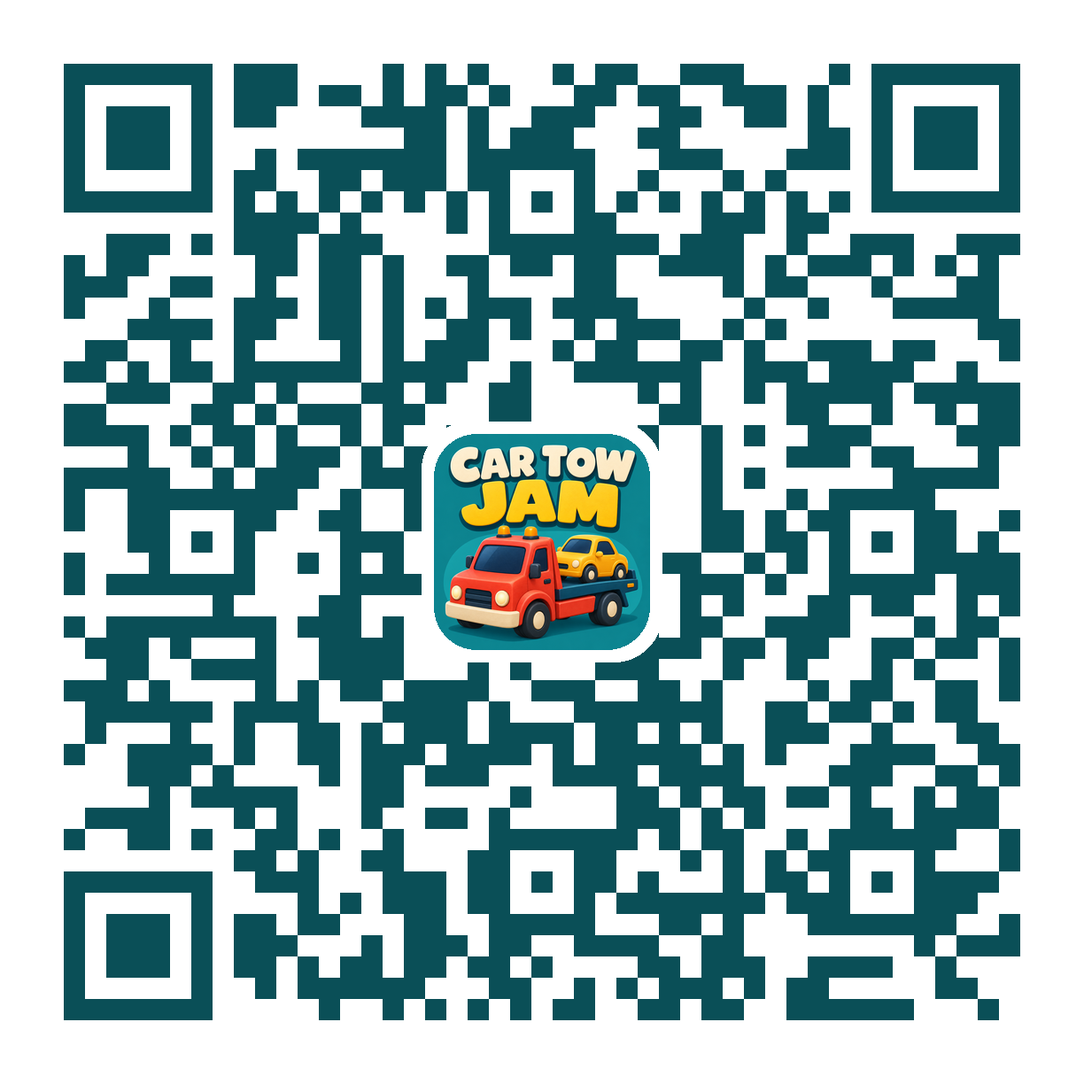
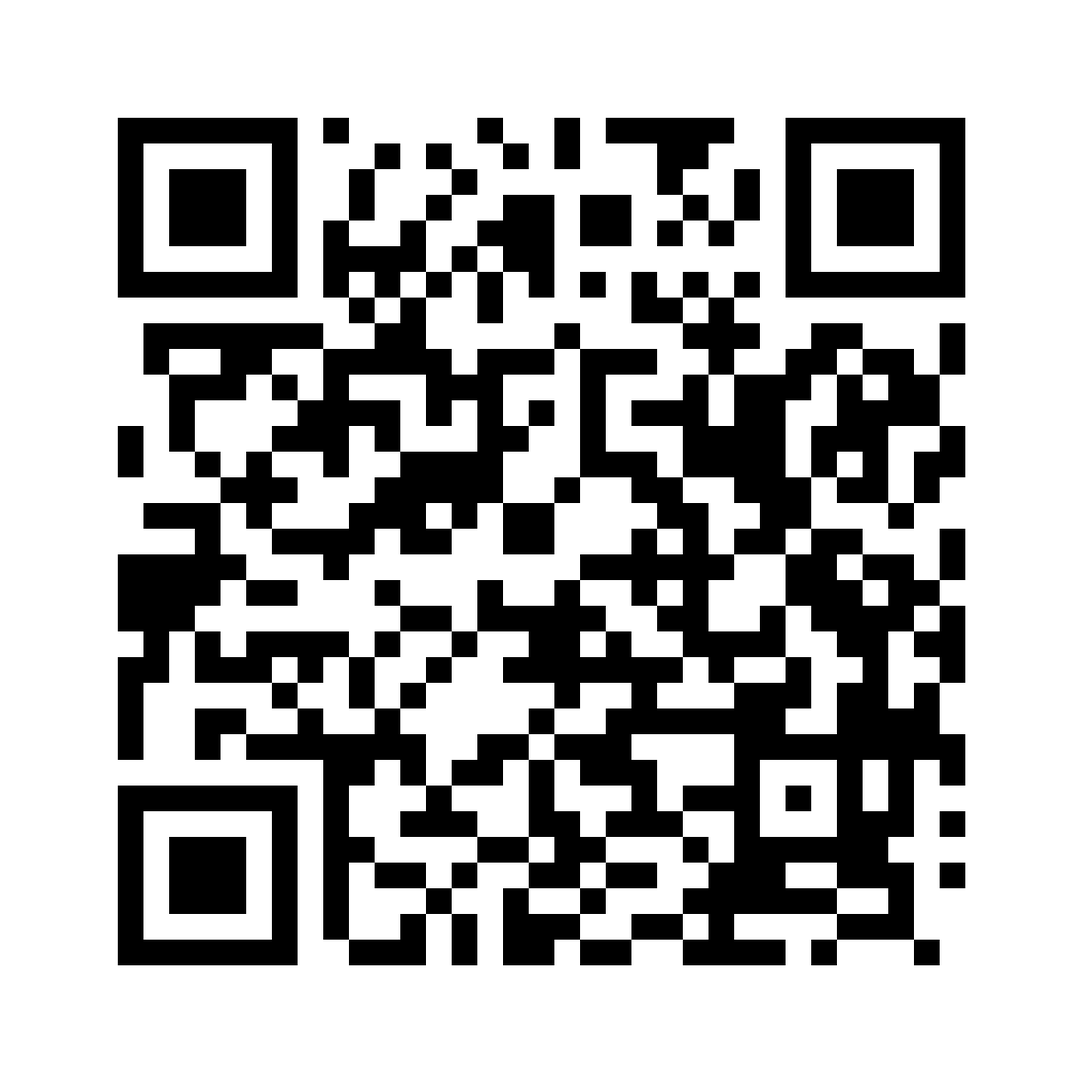
Rebrand website to Tow Yard: Truck Parking Puzzle
New name, icon, logo and screenshots; site URLs and QR codes point to
https://mu-haris.github.io/Tow-Yard/ (repo to be renamed to Tow-Yard).

diff --git a/support/index.html b/support/index.html
@@ -3,35 +3,36 @@
 <head>
 <meta charset="utf-8">
 <meta name="viewport" content="width=device-width,initial-scale=1">
-<title>Support | Car Tow Jam: Parking Puzzle</title>
-<meta name="description" content="Help and contact for Car Tow Jam: Parking Puzzle.">
+<title>Support | Tow Yard: Truck Parking Puzzle</title>
+<meta name="description" content="Help and contact for Tow Yard: Truck Parking Puzzle.">
 <link rel="icon" href="../assets/favicon.png">
 <link rel="apple-touch-icon" href="../assets/apple-touch-icon.png">
-<meta property="og:title" content="Support | Car Tow Jam: Parking Puzzle">
-<meta property="og:description" content="Help and contact for Car Tow Jam: Parking Puzzle.">
-<meta property="og:image" content="https://mu-haris.github.io/Car-Tow-Jam-Parking-Puzzle/assets/icon-512.png">
-<meta property="og:url" content="https://mu-haris.github.io/Car-Tow-Jam-Parking-Puzzle/support/">
+<meta property="og:title" content="Support | Tow Yard: Truck Parking Puzzle">
+<meta property="og:description" content="Help and contact for Tow Yard: Truck Parking Puzzle.">
+<meta property="og:image" content="https://mu-haris.github.io/Tow-Yard/assets/icon-512.png">
+<meta property="og:url" content="https://mu-haris.github.io/Tow-Yard/support/">
 <link rel="preconnect" href="https://fonts.googleapis.com"><link rel="preconnect" href="https://fonts.gstatic.com" crossorigin>
 <link href="https://fonts.googleapis.com/css2?family=Fredoka:wght@500;600&family=Nunito:wght@400;600;700&display=swap" rel="stylesheet">
 <link rel="stylesheet" href="../assets/site.css">
 </head>
 <body>
 <header class="top"><div class="wrap">
-<a class="brand" href="../"><img src="../assets/icon-512.png" alt=""><span>Car Tow Jam</span></a>
+<a class="brand" href="../"><img src="../assets/icon-512.png" alt=""><span>Tow Yard</span></a>
 <nav><a href="../">Home</a><a href="../support/">Support</a><a href="../privacy/">Privacy</a><a href="../terms/">Terms</a></nav>
 </div></header>
 
 <main class="wrap"><article class="doc">
 <h1>Support</h1>
-<p class="meta">We are happy to help with Car Tow Jam: Parking Puzzle.</p>
+<p class="meta">We are happy to help with Tow Yard: Truck Parking Puzzle.</p>
 <div class="contact"><a class="btn" href="mailto:muhammadharisgift1@gmail.com?subject=Car%20Tow%20Jam%20Support">Email support</a><span>muhammadharisgift1@gmail.com</span></div>
 <p>Please include your device model, iOS version, and the level number if your question is about a level.</p>
 <h2>Frequently asked questions</h2>
 <div class="faq">
 <details><summary>How do I play?</summary><p>Tap a car to drive it out. A car can leave only if nothing blocks its path. Cars of the active tow truck's colour load onto the truck; other cars wait in the yellow <strong>P</strong> parking spots. Top cars go to the ferry of their colour. Keep parking spots free so you do not run out of moves.</p></details>
 <details><summary>I bought Premium but still see ads</summary><p>Open <strong>Settings &gt; Restore Purchases</strong>. Make sure you are signed in with the same Apple ID that bought the subscription. Optional rewarded videos (like doubling coins) stay available with Premium.</p></details>
-<details><summary>How do I cancel Premium?</summary><p>On your iPhone, open <em>Settings &gt; [your name] &gt; Subscriptions</em>, choose Car Tow Jam and tap Cancel. Deleting the App does not cancel the subscription.</p></details>
+<details><summary>How do I cancel Premium?</summary><p>On your iPhone, open <em>Settings &gt; [your name] &gt; Subscriptions</em>, choose Tow Yard and tap Cancel. Deleting the App does not cancel the subscription.</p></details>
 <details><summary>Can I get a refund?</summary><p>Purchases are handled by Apple. Request a refund at <a href="https://reportaproblem.apple.com">reportaproblem.apple.com</a>.</p></details>
+<details><summary>Why is one parking spot locked?</summary><p>The leftmost parking spot unlocks for 4 minutes when you watch a short ad (tap the padlock). Every level can be finished with the other spots; the extra spot just makes it easier. Premium keeps it unlocked.</p></details>
 <details><summary>My progress or coins are gone</summary><p>Progress and coins are saved on your device. They are removed if the App is deleted. Premium can always be restored with Restore Purchases.</p></details>
 <details><summary>How do I turn off sound, music or vibration?</summary><p>Tap the gear button in the game to open Settings. Use the Music slider and the Sound and Vibration switches.</p></details>
 <details><summary>A level feels impossible</summary><p>Every level has a solution. Try parking different blocking cars, and use the parking spots sparingly. You can restart a level from the pause menu.</p></details>

diff --git a/terms/index.html b/terms/index.html
@@ -3,33 +3,33 @@
 <head>
 <meta charset="utf-8">
 <meta name="viewport" content="width=device-width,initial-scale=1">
-<title>Terms of Use | Car Tow Jam: Parking Puzzle</title>
-<meta name="description" content="Terms of use and subscription terms for Car Tow Jam: Parking Puzzle.">
+<title>Terms of Use | Tow Yard: Truck Parking Puzzle</title>
+<meta name="description" content="Terms of use and subscription terms for Tow Yard: Truck Parking Puzzle.">
 <link rel="icon" href="../assets/favicon.png">
 <link rel="apple-touch-icon" href="../assets/apple-touch-icon.png">
-<meta property="og:title" content="Terms of Use | Car Tow Jam: Parking Puzzle">
-<meta property="og:description" content="Terms of use and subscription terms for Car Tow Jam: Parking Puzzle.">
-<meta property="og:image" content="https://mu-haris.github.io/Car-Tow-Jam-Parking-Puzzle/assets/icon-512.png">
-<meta property="og:url" content="https://mu-haris.github.io/Car-Tow-Jam-Parking-Puzzle/terms/">
+<meta property="og:title" content="Terms of Use | Tow Yard: Truck Parking Puzzle">
+<meta property="og:description" content="Terms of use and subscription terms for Tow Yard: Truck Parking Puzzle.">
+<meta property="og:image" content="https://mu-haris.github.io/Tow-Yard/assets/icon-512.png">
+<meta property="og:url" content="https://mu-haris.github.io/Tow-Yard/terms/">
 <link rel="preconnect" href="https://fonts.googleapis.com"><link rel="preconnect" href="https://fonts.gstatic.com" crossorigin>
 <link href="https://fonts.googleapis.com/css2?family=Fredoka:wght@500;600&family=Nunito:wght@400;600;700&display=swap" rel="stylesheet">
 <link rel="stylesheet" href="../assets/site.css">
 </head>
 <body>
 <header class="top"><div class="wrap">
-<a class="brand" href="../"><img src="../assets/icon-512.png" alt=""><span>Car Tow Jam</span></a>
+<a class="brand" href="../"><img src="../assets/icon-512.png" alt=""><span>Tow Yard</span></a>
 <nav><a href="../">Home</a><a href="../support/">Support</a><a href="../privacy/">Privacy</a><a href="../terms/">Terms</a></nav>
 </div></header>
 
 <main class="wrap"><article class="doc">
 <h1>Terms of Use</h1>
-<p class="meta">Car Tow Jam: Parking Puzzle &middot; Last updated September 30, 2026</p>
-<p>These Terms of Use govern your use of Car Tow Jam: Parking Puzzle (the "App") published by Kinex Apps. By downloading or playing the App you agree to these terms and to Apple's <a href="https://www.apple.com/legal/internet-services/itunes/dev/stdeula/">Standard Licensed Application End User License Agreement</a>, which also applies.</p>
+<p class="meta">Tow Yard: Truck Parking Puzzle &middot; Last updated October 6, 2026</p>
+<p>These Terms of Use govern your use of Tow Yard: Truck Parking Puzzle (the "App") published by Kinex Apps. By downloading or playing the App you agree to these terms and to Apple's <a href="https://www.apple.com/legal/internet-services/itunes/dev/stdeula/">Standard Licensed Application End User License Agreement</a>, which also applies.</p>
 <h2>License</h2>
 <p>We grant you a personal, non-transferable, non-exclusive license to use the App on Apple devices you own or control, as permitted by the App Store terms.</p>
 <h2>Premium subscription</h2>
 <ul>
-<li><strong>Premium</strong> is an auto-renewing monthly subscription ($3.99 per month in the US; the price in your local currency is shown in the App before you buy). It removes banner ads and the ads shown between levels. Optional rewarded videos (for example, doubling coins) remain available.</li>
+<li><strong>Premium</strong> is an auto-renewing monthly subscription ($3.99 per month in the US; the price in your local currency is shown in the App before you buy). It removes banner ads and the ads shown between levels, and keeps the extra parking spot unlocked. Optional rewarded videos (for example, doubling coins) remain available.</li>
 <li>Payment is charged to your Apple ID account when you confirm the purchase.</li>
 <li>The subscription renews automatically unless it is cancelled at least 24 hours before the end of the current period. Your account is charged for renewal within 24 hours before the end of the current period.</li>
 <li>You can manage or cancel your subscription in your Apple ID account settings (<em>Settings &gt; [your name] &gt; Subscriptions</em>). Deleting the App does not cancel the subscription.</li>

diff --git a/index.html b/index.html
@@ -3,32 +3,32 @@
 <head>
 <meta charset="utf-8">
 <meta name="viewport" content="width=device-width,initial-scale=1">
-<title>Car Tow Jam: Parking Puzzle</title>
-<meta name="description" content="Car Tow Jam: Parking Puzzle, a relaxing traffic puzzle game for iPhone and iPad.">
+<title>Tow Yard: Truck Parking Puzzle</title>
+<meta name="description" content="Tow Yard: Truck Parking Puzzle, a relaxing traffic puzzle game for iPhone and iPad.">
 <link rel="icon" href="assets/favicon.png">
 <link rel="apple-touch-icon" href="assets/apple-touch-icon.png">
-<meta property="og:title" content="Car Tow Jam: Parking Puzzle">
-<meta property="og:description" content="Car Tow Jam: Parking Puzzle, a relaxing traffic puzzle game for iPhone and iPad.">
-<meta property="og:image" content="https://mu-haris.github.io/Car-Tow-Jam-Parking-Puzzle/assets/icon-512.png">
-<meta property="og:url" content="https://mu-haris.github.io/Car-Tow-Jam-Parking-Puzzle/">
+<meta property="og:title" content="Tow Yard: Truck Parking Puzzle">
+<meta property="og:description" content="Tow Yard: Truck Parking Puzzle, a relaxing traffic puzzle game for iPhone and iPad.">
+<meta property="og:image" content="https://mu-haris.github.io/Tow-Yard/assets/icon-512.png">
+<meta property="og:url" content="https://mu-haris.github.io/Tow-Yard/">
 <link rel="preconnect" href="https://fonts.googleapis.com"><link rel="preconnect" href="https://fonts.gstatic.com" crossorigin>
 <link href="https://fonts.googleapis.com/css2?family=Fredoka:wght@500;600&family=Nunito:wght@400;600;700&display=swap" rel="stylesheet">
 <link rel="stylesheet" href="assets/site.css">
 </head>
 <body>
 <header class="top"><div class="wrap">
-<a class="brand" href=""><img src="assets/icon-512.png" alt=""><span>Car Tow Jam</span></a>
+<a class="brand" href=""><img src="assets/icon-512.png" alt=""><span>Tow Yard</span></a>
 <nav><a href="">Home</a><a href="support/">Support</a><a href="privacy/">Privacy</a><a href="terms/">Terms</a></nav>
 </div></header>
 
 <section class="hero"><div class="wrap">
 <div>
-<h1>Car Tow Jam: Parking Puzzle</h1>
+<h1>Tow Yard: Truck Parking Puzzle</h1>
 <p class="lead">Untangle the traffic jam! Tap cars in the right order, send them onto matching tow trucks and ferries, and keep the spare parking spots free. A relaxing, colourful puzzle across a tropical harbor, snowy docks and an autumn lake.</p>
 <a class="btn" href="download/"><svg viewBox="0 0 384 512" aria-hidden="true"><path d="M318.7 268.7c-.2-36.7 16.4-64.4 50-84.8-18.8-26.9-47.2-41.7-84.7-44.6-35.5-2.8-74.3 20.7-88.5 20.7-15 0-49.4-19.7-76.4-19.7C63.3 141.2 4 184.8 4 273.5q0 39.3 14.4 81.2c12.8 36.7 59 126.7 107.2 125.2 25.2-.6 43-17.9 75.8-17.9 31.8 0 48.3 17.9 76.4 17.9 48.6-.7 90.4-82.5 102.6-119.3-65.2-30.7-61.7-90-61.7-91.9zm-56.6-164.2c27.3-32.4 24.8-61.9 24-72.5-24.1 1.4-52 16.4-67.9 34.9-17.5 19.8-27.8 44.3-25.6 71.9 26.1 2 49.9-11.4 69.5-34.3z"/></svg><span><small>Download on the</small>App Store</span></a>
-<div class="qr"><img src="assets/qr-app-store-small.png" alt="QR code that opens Car Tow Jam on the App Store"><p><strong>Scan to download</strong><br>Point your iPhone camera at the code to open Car Tow Jam on the App Store.</p></div>
+<div class="qr"><img src="assets/qr-app-store-small.png" alt="QR code that opens Tow Yard on the App Store"><p><strong>Scan to download</strong><br>Point your iPhone camera at the code to open Tow Yard on the App Store.</p></div>
 </div>
-<img class="logo" src="assets/logo.png" alt="Car Tow Jam: Parking Puzzle logo">
+<img class="logo" src="assets/logo.png" alt="Tow Yard: Truck Parking Puzzle logo">
 </div></section>
 <section><div class="wrap">
 <h2>Screenshots</h2>

diff --git a/privacy/index.html b/privacy/index.html
@@ -3,28 +3,28 @@
 <head>
 <meta charset="utf-8">
 <meta name="viewport" content="width=device-width,initial-scale=1">
-<title>Privacy Policy | Car Tow Jam: Parking Puzzle</title>
-<meta name="description" content="Privacy policy for Car Tow Jam: Parking Puzzle.">
+<title>Privacy Policy | Tow Yard: Truck Parking Puzzle</title>
+<meta name="description" content="Privacy policy for Tow Yard: Truck Parking Puzzle.">
 <link rel="icon" href="../assets/favicon.png">
 <link rel="apple-touch-icon" href="../assets/apple-touch-icon.png">
-<meta property="og:title" content="Privacy Policy | Car Tow Jam: Parking Puzzle">
-<meta property="og:description" content="Privacy policy for Car Tow Jam: Parking Puzzle.">
-<meta property="og:image" content="https://mu-haris.github.io/Car-Tow-Jam-Parking-Puzzle/assets/icon-512.png">
-<meta property="og:url" content="https://mu-haris.github.io/Car-Tow-Jam-Parking-Puzzle/privacy/">
+<meta property="og:title" content="Privacy Policy | Tow Yard: Truck Parking Puzzle">
+<meta property="og:description" content="Privacy policy for Tow Yard: Truck Parking Puzzle.">
+<meta property="og:image" content="https://mu-haris.github.io/Tow-Yard/assets/icon-512.png">
+<meta property="og:url" content="https://mu-haris.github.io/Tow-Yard/privacy/">
 <link rel="preconnect" href="https://fonts.googleapis.com"><link rel="preconnect" href="https://fonts.gstatic.com" crossorigin>
 <link href="https://fonts.googleapis.com/css2?family=Fredoka:wght@500;600&family=Nunito:wght@400;600;700&display=swap" rel="stylesheet">
 <link rel="stylesheet" href="../assets/site.css">
 </head>
 <body>
 <header class="top"><div class="wrap">
-<a class="brand" href="../"><img src="../assets/icon-512.png" alt=""><span>Car Tow Jam</span></a>
+<a class="brand" href="../"><img src="../assets/icon-512.png" alt=""><span>Tow Yard</span></a>
 <nav><a href="../">Home</a><a href="../support/">Support</a><a href="../privacy/">Privacy</a><a href="../terms/">Terms</a></nav>
 </div></header>
 
 <main class="wrap"><article class="doc">
 <h1>Privacy Policy</h1>
-<p class="meta">Car Tow Jam: Parking Puzzle &middot; Last updated September 30, 2026</p>
-<p>This policy explains what information is used when you play Car Tow Jam: Parking Puzzle (the "App"), published by Kinex Apps ("we", "us"). If you have questions, email <a href="mailto:muhammadharisgift1@gmail.com">muhammadharisgift1@gmail.com</a>.</p>
+<p class="meta">Tow Yard: Truck Parking Puzzle &middot; Last updated October 6, 2026</p>
+<p>This policy explains what information is used when you play Tow Yard: Truck Parking Puzzle (the "App"), published by Kinex Apps ("we", "us"). If you have questions, email <a href="mailto:muhammadharisgift1@gmail.com">muhammadharisgift1@gmail.com</a>.</p>
 <h2>Information we collect</h2>
 <p>We do not ask for your name, email, contacts or location, and we do not run our own servers that collect data about you. The App stores your game progress, coins, shop items and settings <strong>only on your device</strong>. Deleting the App deletes this data.</p>
 <p>We do not use analytics services in the App.</p>

diff --git a/download/index.html b/download/index.html
@@ -3,27 +3,27 @@
 <head>
 <meta charset="utf-8">
 <meta name="viewport" content="width=device-width,initial-scale=1">
-<title>Download | Car Tow Jam: Parking Puzzle</title>
-<meta name="description" content="Download Car Tow Jam: Parking Puzzle on the App Store.">
+<title>Download | Tow Yard: Truck Parking Puzzle</title>
+<meta name="description" content="Download Tow Yard: Truck Parking Puzzle on the App Store.">
 <link rel="icon" href="../assets/favicon.png">
 <link rel="apple-touch-icon" href="../assets/apple-touch-icon.png">
-<meta property="og:title" content="Download | Car Tow Jam: Parking Puzzle">
-<meta property="og:description" content="Download Car Tow Jam: Parking Puzzle on the App Store.">
-<meta property="og:image" content="https://mu-haris.github.io/Car-Tow-Jam-Parking-Puzzle/assets/icon-512.png">
-<meta property="og:url" content="https://mu-haris.github.io/Car-Tow-Jam-Parking-Puzzle/download/">
+<meta property="og:title" content="Download | Tow Yard: Truck Parking Puzzle">
+<meta property="og:description" content="Download Tow Yard: Truck Parking Puzzle on the App Store.">
+<meta property="og:image" content="https://mu-haris.github.io/Tow-Yard/assets/icon-512.png">
+<meta property="og:url" content="https://mu-haris.github.io/Tow-Yard/download/">
 <link rel="preconnect" href="https://fonts.googleapis.com"><link rel="preconnect" href="https://fonts.gstatic.com" crossorigin>
 <link href="https://fonts.googleapis.com/css2?family=Fredoka:wght@500;600&family=Nunito:wght@400;600;700&display=swap" rel="stylesheet">
 <link rel="stylesheet" href="../assets/site.css">
 </head>
 <body>
 <header class="top"><div class="wrap">
-<a class="brand" href="../"><img src="../assets/icon-512.png" alt=""><span>Car Tow Jam</span></a>
+<a class="brand" href="../"><img src="../assets/icon-512.png" alt=""><span>Tow Yard</span></a>
 <nav><a href="../">Home</a><a href="../support/">Support</a><a href="../privacy/">Privacy</a><a href="../terms/">Terms</a></nav>
 </div></header>
 
 <main class="wrap"><article class="doc" style="text-align:center">
 <img src="../assets/icon-512.png" alt="" style="width:120px;border-radius:26px;margin-top:8px">
-<h1>Car Tow Jam: Parking Puzzle</h1>
+<h1>Tow Yard: Truck Parking Puzzle</h1>
 <p id="msg">Coming soon to the App Store. Check back shortly!</p>
 <p><a href="https://kinexapps.com/">Visit Kinex Apps</a></p>
 </article></main>

diff --git a/build_site.py b/build_site.py
@@ -1,18 +1,18 @@
-"""Builds the Car Tow Jam: Parking Puzzle website (GitHub Pages): home (marketing + QR), privacy policy, terms of use,
+"""Builds the Tow Yard: Truck Parking Puzzle website (GitHub Pages): home (marketing + QR), privacy policy, terms of use,
 support, the QR/download redirect and app-ads.txt. Edit the constants below, run `python3 build_site.py`, commit, push.
 """
 from pathlib import Path
 ROOT = Path(__file__).parent
-GAME = "Car Tow Jam: Parking Puzzle"
+GAME = "Tow Yard: Truck Parking Puzzle"
 DEVELOPER = "Kinex Apps"
 DEV_SITE = "https://kinexapps.com/"
 EMAIL = "muhammadharisgift1@gmail.com"
-BASE = "https://mu-haris.github.io/Car-Tow-Jam-Parking-Puzzle/"
+BASE = "https://mu-haris.github.io/Tow-Yard/"
 # Paste the App Store link here once the app is live (e.g. https://apps.apple.com/app/id1234567890), then rebuild.
 # The QR code points at /download/, which forwards here, so the printed QR code never needs to change.
 APP_STORE_URL = ""
 PRICE = "$3.99"
-UPDATED = "September 30, 2026"
+UPDATED = "October 6, 2026"
 
 CSS = """
 :root{--teal:#0D838F;--teal-d:#0A4F57;--cream:#FFF6E4;--card:#FFFFFF;--ink:#2B1B10;--muted:#6B5646;--yellow:#FFC526;--red:#E8452C;--line:#EAD9BD;--bg:#FFF1D6}
@@ -81,7 +81,7 @@ def page(title, body, path, description, depth=1):
 </head>
 <body>
 <header class="top"><div class="wrap">
-<a class="brand" href="{up}"><img src="{up}assets/icon-512.png" alt=""><span>Car Tow Jam</span></a>
+<a class="brand" href="{up}"><img src="{up}assets/icon-512.png" alt=""><span>Tow Yard</span></a>
 <nav><a href="{up}">Home</a><a href="{up}support/">Support</a><a href="{up}privacy/">Privacy</a><a href="{up}terms/">Terms</a></nav>
 </div></header>
 {body}
@@ -105,9 +105,9 @@ home = f"""
 <h1>{GAME}</h1>
 <p class="lead">Untangle the traffic jam! Tap cars in the right order, send them onto matching tow trucks and ferries, and keep the spare parking spots free. A relaxing, colourful puzzle across a tropical harbor, snowy docks and an autumn lake.</p>
 {store_button}
-<div class="qr"><img src="assets/qr-app-store-small.png" alt="QR code that opens Car Tow Jam on the App Store"><p><strong>Scan to download</strong><br>Point your iPhone camera at the code to open Car Tow Jam on the App Store.</p></div>
+<div class="qr"><img src="assets/qr-app-store-small.png" alt="QR code that opens Tow Yard on the App Store"><p><strong>Scan to download</strong><br>Point your iPhone camera at the code to open Tow Yard on the App Store.</p></div>
 </div>
-<img class="logo" src="assets/logo.png" alt="Car Tow Jam: Parking Puzzle logo">
+<img class="logo" src="assets/logo.png" alt="Tow Yard: Truck Parking Puzzle logo">
 </div></section>
 <section><div class="wrap">
 <h2>Screenshots</h2>
@@ -125,7 +125,7 @@ home = f"""
 </div>
 </div></section>
 """
-write("index.html", page(GAME, home, "", "Car Tow Jam: Parking Puzzle, a relaxing traffic puzzle game for iPhone and iPad.", depth=0).replace('href="../','href="').replace('src="../','src="'))
+write("index.html", page(GAME, home, "", "Tow Yard: Truck Parking Puzzle, a relaxing traffic puzzle game for iPhone and iPad.", depth=0).replace('href="../','href="').replace('src="../','src="'))
 
 privacy = f"""
 <main class="wrap"><article class="doc">
@@ -171,7 +171,7 @@ terms = f"""
 <p>We grant you a personal, non-transferable, non-exclusive license to use the App on Apple devices you own or control, as permitted by the App Store terms.</p>
 <h2>Premium subscription</h2>
 <ul>
-<li><strong>Premium</strong> is an auto-renewing monthly subscription ({PRICE} per month in the US; the price in your local currency is shown in the App before you buy). It removes banner ads and the ads shown between levels. Optional rewarded videos (for example, doubling coins) remain available.</li>
+<li><strong>Premium</strong> is an auto-renewing monthly subscription ({PRICE} per month in the US; the price in your local currency is shown in the App before you buy). It removes banner ads and the ads shown between levels, and keeps the extra parking spot unlocked. Optional rewarded videos (for example, doubling coins) remain available.</li>
 <li>Payment is charged to your Apple ID account when you confirm the purchase.</li>
 <li>The subscription renews automatically unless it is cancelled at least 24 hours before the end of the current period. Your account is charged for renewal within 24 hours before the end of the current period.</li>
 <li>You can manage or cancel your subscription in your Apple ID account settings (<em>Settings &gt; [your name] &gt; Subscriptions</em>). Deleting the App does not cancel the subscription.</li>
@@ -204,8 +204,9 @@ support = f"""
 <div class="faq">
 <details><summary>How do I play?</summary><p>Tap a car to drive it out. A car can leave only if nothing blocks its path. Cars of the active tow truck's colour load onto the truck; other cars wait in the yellow <strong>P</strong> parking spots. Top cars go to the ferry of their colour. Keep parking spots free so you do not run out of moves.</p></details>
 <details><summary>I bought Premium but still see ads</summary><p>Open <strong>Settings &gt; Restore Purchases</strong>. Make sure you are signed in with the same Apple ID that bought the subscription. Optional rewarded videos (like doubling coins) stay available with Premium.</p></details>
-<details><summary>How do I cancel Premium?</summary><p>On your iPhone, open <em>Settings &gt; [your name] &gt; Subscriptions</em>, choose Car Tow Jam and tap Cancel. Deleting the App does not cancel the subscription.</p></details>
+<details><summary>How do I cancel Premium?</summary><p>On your iPhone, open <em>Settings &gt; [your name] &gt; Subscriptions</em>, choose Tow Yard and tap Cancel. Deleting the App does not cancel the subscription.</p></details>
 <details><summary>Can I get a refund?</summary><p>Purchases are handled by Apple. Request a refund at <a href="https://reportaproblem.apple.com">reportaproblem.apple.com</a>.</p></details>
+<details><summary>Why is one parking spot locked?</summary><p>The leftmost parking spot unlocks for 4 minutes when you watch a short ad (tap the padlock). Every level can be finished with the other spots; the extra spot just makes it easier. Premium keeps it unlocked.</p></details>
 <details><summary>My progress or coins are gone</summary><p>Progress and coins are saved on your device. They are removed if the App is deleted. Premium can always be restored with Restore Purchases.</p></details>
 <details><summary>How do I turn off sound, music or vibration?</summary><p>Tap the gear button in the game to open Settings. Use the Music slider and the Sound and Vibration switches.</p></details>
 <details><summary>A level feels impossible</summary><p>Every level has a solution. Try parking different blocking cars, and use the parking spots sparingly. You can restart a level from the pause menu.</p></details>
@@ -232,12 +233,11 @@ write("download/index.html", html)
 
 write("assets/site.css", CSS.strip() + "\n")
 write(".nojekyll", "")
-write("app-ads.txt", """# app-ads.txt for Car Tow Jam: Parking Puzzle (Google AdMob)
+write("app-ads.txt", """# app-ads.txt for Tow Yard: Truck Parking Puzzle (Google AdMob)
 # AdMob only reads this file from the ROOT of the developer website in the App Store listing:
 #   https://kinexapps.com/app-ads.txt
-# Replace pub-XXXXXXXXXXXXXXXX with your AdMob publisher ID (AdMob > Settings > Account information),
-# remove the leading "# " from the line below, and upload the file to kinexapps.com.
-# google.com, pub-XXXXXXXXXXXXXXXX, DIRECT, f08c47fec0942fa0
+# Upload this file to the root of kinexapps.com (the Marketing / developer website in the App Store listing).
+google.com, pub-8234392075217497, DIRECT, f08c47fec0942fa0
 """)
 write("README.md", f"""# {GAME}: website
 

diff --git a/README.md b/README.md
@@ -1,14 +1,14 @@
-# Car Tow Jam: Parking Puzzle: website
+# Tow Yard: Truck Parking Puzzle: website
 
 Public pages for the App Store listing and AdMob:
 
 | Page | URL |
 |---|---|
-| Home / Marketing | https://mu-haris.github.io/Car-Tow-Jam-Parking-Puzzle/ |
-| Privacy Policy | https://mu-haris.github.io/Car-Tow-Jam-Parking-Puzzle/privacy/ |
-| Terms of Use (EULA) | https://mu-haris.github.io/Car-Tow-Jam-Parking-Puzzle/terms/ |
-| Support | https://mu-haris.github.io/Car-Tow-Jam-Parking-Puzzle/support/ |
-| QR / download link | https://mu-haris.github.io/Car-Tow-Jam-Parking-Puzzle/download/ |
+| Home / Marketing | https://mu-haris.github.io/Tow-Yard/ |
+| Privacy Policy | https://mu-haris.github.io/Tow-Yard/privacy/ |
+| Terms of Use (EULA) | https://mu-haris.github.io/Tow-Yard/terms/ |
+| Support | https://mu-haris.github.io/Tow-Yard/support/ |
+| QR / download link | https://mu-haris.github.io/Tow-Yard/download/ |
 
 `assets/qr-app-store.png` is the printable QR code (it opens `/download/`, which forwards to the App Store once
 `APP_STORE_URL` is set in `build_site.py`). Edit `build_site.py`, run `python3 build_site.py`, then commit and push.
